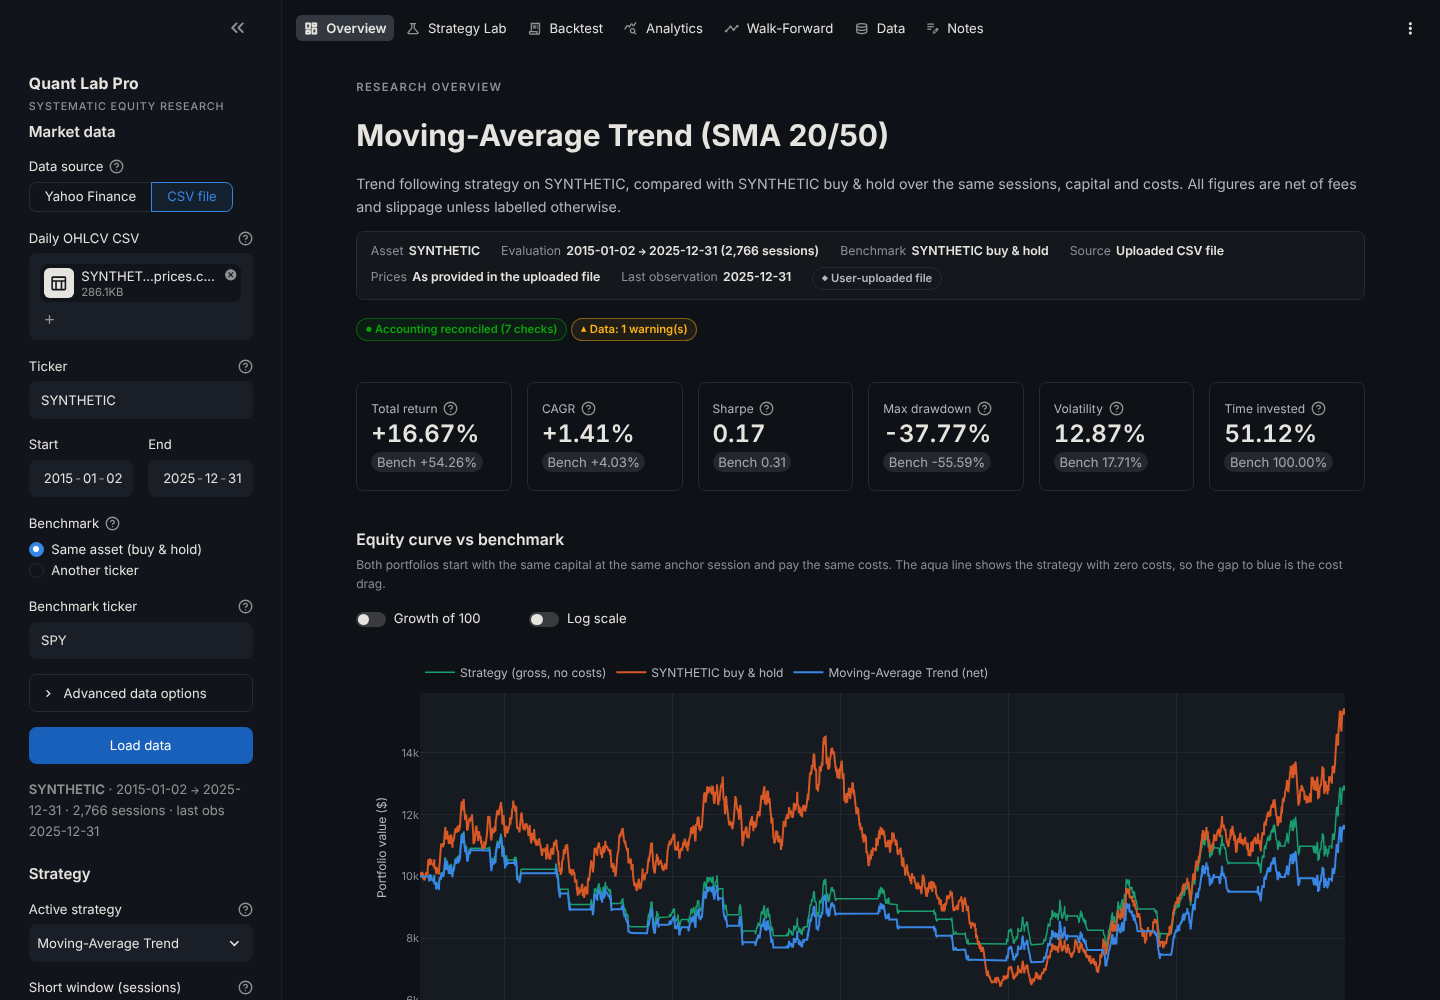
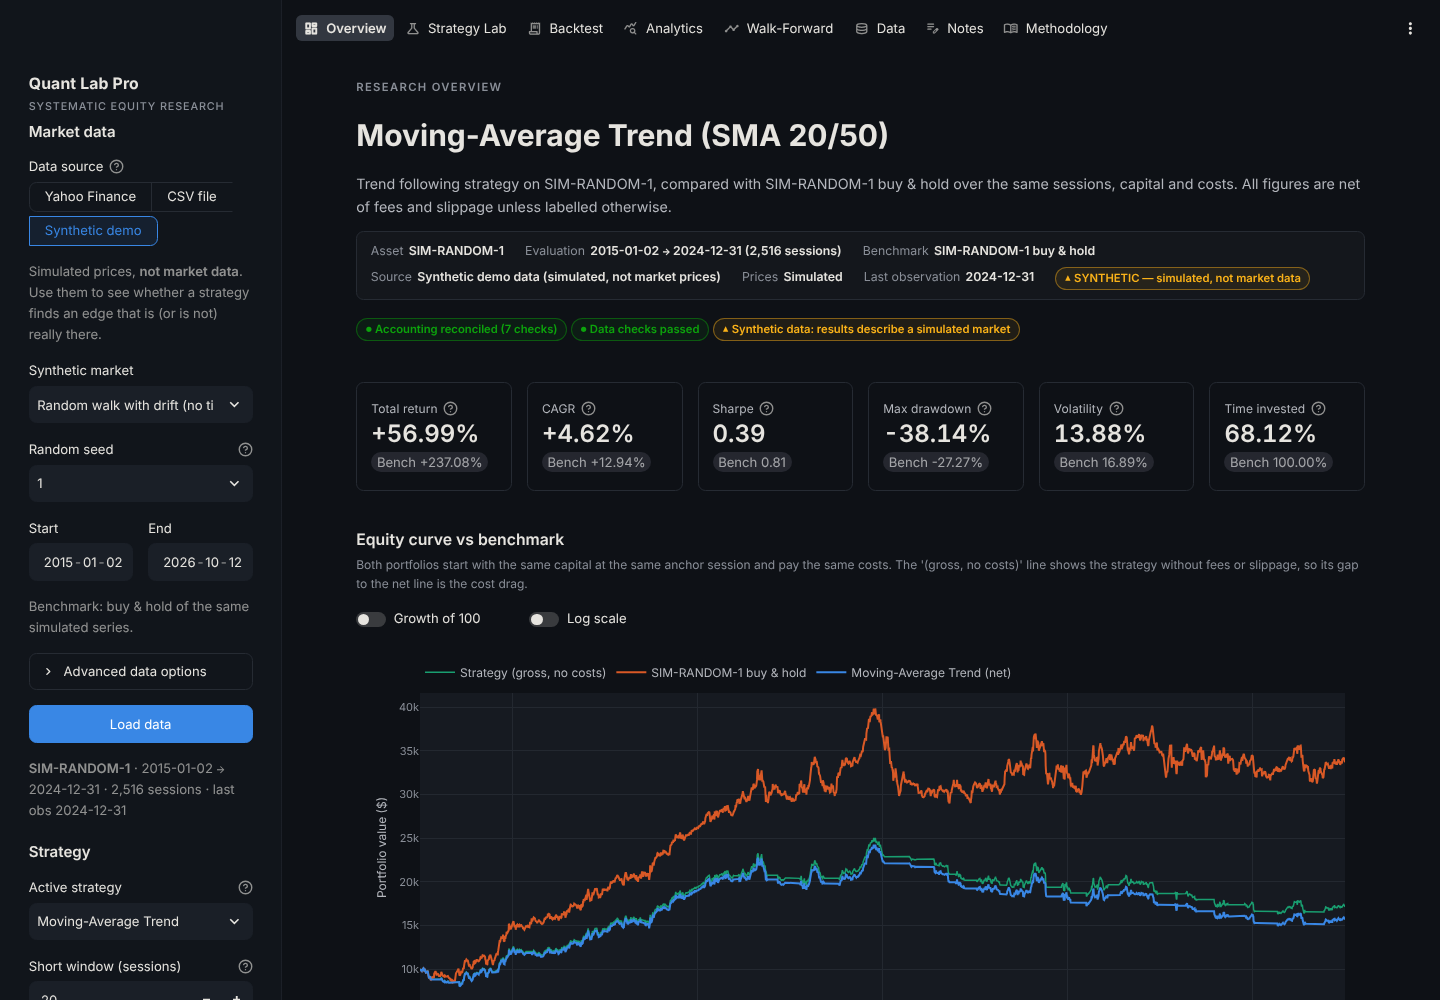
Wrapping Methodology tables, honest labels for simulated prices, demo screenshots
- Methodology: claims and thresholds render as wrapping tables with readable
  threshold names; the filter also searches test names.
- Evidence checklist: status pills no longer wrap; wide tables scroll sideways
  on narrow screens.
- Synthetic data is described as simulated (no splits or dividends) rather
  than as split-adjusted or delayed historical data.
- README screenshots regenerated from the labelled synthetic demo, including
  the evidence checklist and the Methodology page.

Claude-Session: https://claude.ai/code/session_01BxbNfZnyXesfkjat3oRNGY

diff --git a/ui/components.py b/ui/components.py
@@ -9,7 +9,7 @@ import pandas as pd
 import streamlit as st
 
 from quantlab.config import APP_VERSION, METHODOLOGY_VERSION
-from quantlab.data import ADJUSTMENT_LABELS, CACHE_STATUS_LABELS, CacheStatus
+from quantlab.data import CACHE_STATUS_LABELS, CacheStatus
 from quantlab.metrics import Metric, MetricReport, format_value
 from quantlab.validation import QualityReport
 from ui.theme import PLOTLY_CONFIG
@@ -115,7 +115,7 @@ def context_strip(data, spec=None, label: str | None = None) -> None:
         ("Evaluation", f"{data.eval_start:%Y-%m-%d} → {data.eval_end:%Y-%m-%d} ({len(data.eval_prices):,} sessions)"),
         ("Benchmark", data.benchmark_label),
         ("Source", ds.source_name),
-        ("Prices", ADJUSTMENT_LABELS.get(ds.adjustment, ds.adjustment).split(" (")[0]),
+        ("Prices", ds.price_convention.split(" (")[0]),
         ("Last observation", f"{ds.last_date:%Y-%m-%d}"),
     ]
     if label:
@@ -266,6 +266,26 @@ def show_table(frame: pd.DataFrame, height: int | str = "auto", **kwargs) -> Non
     st.dataframe(frame, hide_index=True, width="stretch", height=height, **kwargs)
 
 
+def html_table(frame: pd.DataFrame, code_columns: Iterable[str] = ()) -> None:
+    """A wrapping table for long text, which ``st.dataframe`` would truncate.
+
+    A list or tuple cell renders one item per line; ``code_columns`` render in monospace.
+    """
+    code = set(code_columns)
+
+    def cell(column, value) -> str:
+        parts = [_esc(v) for v in (value if isinstance(value, list | tuple) else [value])]
+        return "<br>".join(f"<code>{p}</code>" if column in code else p for p in parts)
+
+    head = "".join(f"<th>{_esc(c)}</th>" for c in frame.columns)
+    body = "".join(
+        "<tr>" + "".join(f"<td>{cell(c, v)}</td>" for c, v in zip(frame.columns, row, strict=True)) + "</tr>"
+        for row in frame.itertuples(index=False)
+    )
+    st.markdown(f"<div class='qlp-scroll'><table class='qlp-table'><thead><tr>{head}</tr></thead>"
+                f"<tbody>{body}</tbody></table></div>", unsafe_allow_html=True)
+
+
 def plot(fig, key: str | None = None) -> None:
     st.plotly_chart(fig, theme=None, config=PLOTLY_CONFIG, key=key, width="stretch")
 
@@ -357,8 +377,9 @@ def evidence_table(items) -> None:
             f"<td class='num'>{_esc(item.value)}</td><td>{_esc(item.threshold)}</td><td>{_esc(item.where)}</td></tr>"
         )
     st.markdown(
-        "<table class='qlp-table'><thead><tr><th>Status</th><th>Question</th><th style='text-align:right'>Result</th>"
-        f"<th>Threshold</th><th>Where</th></tr></thead><tbody>{''.join(rows)}</tbody></table>",
+        "<div class='qlp-scroll'><table class='qlp-table'><thead><tr><th>Status</th><th>Question</th>"
+        "<th style='text-align:right'>Result</th><th>Threshold</th><th>Where</th></tr></thead>"
+        f"<tbody>{''.join(rows)}</tbody></table></div>",
         unsafe_allow_html=True,
     )
 

diff --git a/ui/theme.py b/ui/theme.py
@@ -137,7 +137,7 @@ section[data-testid="stSidebar"] .block-container {{ padding-top: 1.2rem; }}
 
 /* Status pills */
 .qlp-pill {{ display: inline-flex; align-items: center; gap: 0.35rem; padding: 0.1rem 0.55rem;
-            border-radius: 999px; font-size: 0.75rem; font-weight: 600; border: 1px solid; }}
+            border-radius: 999px; font-size: 0.75rem; font-weight: 600; border: 1px solid; white-space: nowrap; }}
 .qlp-pill.good {{ color: {GOOD}; border-color: rgba(12,163,12,0.45); background: rgba(12,163,12,0.08); }}
 .qlp-pill.warn {{ color: {WARNING}; border-color: rgba(250,178,25,0.45); background: rgba(250,178,25,0.08); }}
 .qlp-pill.bad  {{ color: #f07070; border-color: rgba(208,59,59,0.5); background: rgba(208,59,59,0.08); }}
@@ -164,6 +164,9 @@ section[data-testid="stSidebar"] .block-container {{ padding-top: 1.2rem; }}
 .qlp-kv .k {{ color: {MUTED}; background: {SURFACE}; }}
 .qlp-kv .v {{ color: {TEXT}; }}
 
+/* Wide HTML tables scroll sideways on narrow screens instead of widening the page */
+.qlp-scroll {{ overflow-x: auto; }}
+
 /* Metric tables that wrap long definitions */
 .qlp-table {{ width: 100%; border-collapse: collapse; font-size: 0.85rem; border: 1px solid {BORDER};
              border-radius: 0.5rem; overflow: hidden; margin-bottom: 0.4rem; }}
@@ -174,6 +177,7 @@ section[data-testid="stSidebar"] .block-container {{ padding-top: 1.2rem; }}
 .qlp-table tr:last-child td {{ border-bottom: none; }}
 .qlp-table td.num {{ font-variant-numeric: tabular-nums; white-space: nowrap; text-align: right; }}
 .qlp-table td.def {{ color: {TEXT_2}; }}
+.qlp-table code {{ font-size: 0.78rem; overflow-wrap: anywhere; }}
 .qlp-table .note {{ display: block; color: {WARNING}; font-size: 0.78rem; margin-top: 0.15rem; }}
 
 /* Sidebar brand */

diff --git a/pages/8_Methodology.py b/pages/8_Methodology.py
@@ -6,7 +6,7 @@ import pandas as pd
 import streamlit as st
 
 from quantlab.config import METHODOLOGY_VERSION, TRADING_DAYS_PER_YEAR
-from quantlab.evidence import THRESHOLDS
+from quantlab.evidence import THRESHOLD_DISPLAY, THRESHOLDS
 from quantlab.traceability import CLAIMS
 from ui import components as ui
 
@@ -33,8 +33,9 @@ ui.kv_table({
 })
 
 ui.section("Evidence thresholds", "Used by the checklist on the Overview. Kept in one place: quantlab/evidence.py.")
-ui.show_table(pd.DataFrame(
-    [{"Check": key, "Threshold": value, "Why": why} for key, (value, why) in THRESHOLDS.items()]
+ui.html_table(pd.DataFrame(
+    [{"Check": THRESHOLD_DISPLAY[key][0], "Threshold": THRESHOLD_DISPLAY[key][1].format(value), "Why": why}
+     for key, (value, why) in THRESHOLDS.items()]
 ))
 
 ui.section("Claim → implementation → test",
@@ -42,12 +43,12 @@ ui.section("Claim → implementation → test",
 query = st.text_input("Filter", placeholder="e.g. look-ahead, Sharpe, CSV", key="meth_filter").strip().lower()
 rows = [
     {"Area": c.area, "Claim": c.claim, "Implementation": c.implementation,
-     "Tests": "\n".join(t.split("::")[1] for t in c.tests)}
+     "Tests": [t.removeprefix("tests/") for t in c.tests]}
     for c in CLAIMS
-    if not query or query in f"{c.area} {c.claim} {c.implementation}".lower()
+    if not query or query in f"{c.area} {c.claim} {c.implementation} {' '.join(c.tests)}".lower()
 ]
 if rows:
-    ui.show_table(pd.DataFrame(rows))
+    ui.html_table(pd.DataFrame(rows), code_columns=("Implementation", "Tests"))
 else:
     st.info("No claim matches that filter.")
 st.caption("Tests live in the tests/ folder of the repository; run them with `python -m pytest`.")

diff --git a/tests/test_app_smoke.py b/tests/test_app_smoke.py
@@ -189,6 +189,8 @@ def test_synthetic_demo_loads_offline_and_is_labelled_everywhere(monkeypatch):
         assert not at.error, (page, [e.value for e in at.error])
         if page not in {"pages/7_Research_Notes.py", "pages/8_Methodology.py"}:
             assert any("SYNTHETIC" in m.value for m in at.markdown), page
+        text = " ".join(e.value for e in [*at.markdown, *at.caption])
+        assert "historical end-of-day data. It is not live" not in text, page  # simulated, not historical
 
 
 LAB_TABS = ["Strategy guide", "Compare strategies", "Parameter sensitivity", "Cost sensitivity"]
@@ -392,3 +394,17 @@ def test_walk_forward_with_the_ensemble():
     at.button(key="wf_run").click().run()
     _assert_clean(at)
     assert "OOS Sharpe" in [m.label for m in at.metric]
+
+
+def test_methodology_lists_every_claim_and_filters_them():
+    from quantlab.traceability import CLAIMS
+
+    at = _app("pages/8_Methodology.py", with_data=False)
+    _assert_clean(at)
+    page = " ".join(m.value for m in at.markdown)
+    assert all(c.implementation in page for c in CLAIMS)
+    at.text_input(key="meth_filter").input("permutation").run()
+    page = " ".join(m.value for m in at.markdown)
+    assert "quantlab.nulls.timing_permutation_test" in page and "quantlab.backtest.simulate" not in page
+    at.text_input(key="meth_filter").input("no such claim").run()
+    assert any("No claim matches" in i.value for i in at.info)

diff --git a/quantlab/data.py b/quantlab/data.py
@@ -757,12 +757,19 @@ class MarketDataset:
     def is_usable(self) -> bool:
         return not self.quality.is_blocking and self.n_obs > 0
 
+    @property
+    def price_convention(self) -> str:
+        if self.provider_key == SyntheticProvider.key:
+            return "Simulated (no splits or dividends)"
+        return ADJUSTMENT_LABELS.get(self.adjustment, str(self.adjustment))
+
     def describe(self) -> dict[str, str]:
+        period = "Generated period" if self.provider_key == SyntheticProvider.key else "Downloaded period"
         return {
             "Ticker": self.ticker,
             "Data source": self.source_name,
-            "Price convention": ADJUSTMENT_LABELS.get(self.adjustment, str(self.adjustment)),
-            "Downloaded period (incl. warm-up)": f"{self.requested_start.date()} to {self.requested_end.date()}",
+            "Price convention": self.price_convention,
+            f"{period} (incl. warm-up)": f"{self.requested_start.date()} to {self.requested_end.date()}",
             "Observations": f"{self.n_obs:,}",
             "First observation": str(self.first_date.date()) if self.first_date is not None else "—",
             "Last available observation": str(self.last_date.date()) if self.last_date is not None else "—",

diff --git a/tests/test_evidence.py b/tests/test_evidence.py
@@ -6,7 +6,7 @@ from types import SimpleNamespace
 
 import pandas as pd
 
-from quantlab.evidence import THRESHOLDS, evidence_checklist
+from quantlab.evidence import THRESHOLD_DISPLAY, THRESHOLDS, evidence_checklist
 
 
 class _Report:
@@ -75,3 +75,10 @@ def test_overview_checklist_updates_after_a_walk_forward_run():
     assert not at.exception
     html = " ".join(m.value for m in at.markdown)
     assert "Run a walk-forward analysis of this strategy" not in html  # the row now reports a result
+
+
+def test_every_threshold_has_a_readable_name_and_comparison():
+    assert THRESHOLD_DISPLAY.keys() == THRESHOLDS.keys()
+    for key, (value, _) in THRESHOLDS.items():
+        name, comparison = THRESHOLD_DISPLAY[key]
+        assert name and "_" not in name and comparison.format(value)

diff --git a/pages/6_Data_Explorer.py b/pages/6_Data_Explorer.py
@@ -71,7 +71,10 @@ with c2:
         else:
             st.caption("Prices are used exactly as uploaded. Make sure you know whether they are adjusted for "
                        "splits and dividends; an unadjusted split looks like a crash.")
-        st.caption("This is delayed historical end-of-day data. It is not live and must not be used as a quote.")
+        if ds.provider_key == "synthetic":
+            st.caption("Simulated prices: not historical, not live, and not a quote for any security.")
+        else:
+            st.caption("This is delayed historical end-of-day data. It is not live and must not be used as a quote.")
         if ds.cache_status.value == "stale_cache":
             st.warning(f"Provider unavailable: {ds.provider_error}", icon=":material/history:")
 

diff --git a/tests/test_data.py b/tests/test_data.py
@@ -331,6 +331,9 @@ def test_synthetic_demo_data_is_deterministic_labelled_and_never_cached(tmp_path
     assert first.fingerprint == again.fingerprint != other.fingerprint
     assert first.is_usable and not first.quality.issues  # passes every data check on the NYSE calendar
     assert not list(tmp_path.iterdir())  # simulated prices are never written to the market-data cache
+    # Simulated prices have no splits or dividends; they are never described as an adjusted price series.
+    assert first.describe()["Price convention"].startswith("Simulated") and "Generated period (incl. warm-up)" in \
+        first.describe()
     with pytest.raises(TickerNotFoundError):
         load_market_data("SPY", "2015-01-01", "2020-12-31", SyntheticProvider(), **kwargs)
 

diff --git a/quantlab/evidence.py b/quantlab/evidence.py
@@ -31,6 +31,16 @@ THRESHOLDS: dict[str, tuple[float, str]] = {
     "wf_retention": (0.5, "Out-of-sample Sharpe at least half the in-sample level."),
 }
 
+# How each threshold reads to a person: a name and the comparison applied to the value.
+THRESHOLD_DISPLAY: dict[str, tuple[str, str]] = {
+    "min_sessions": ("Sample length", "≥ {:,.0f} sessions"),
+    "dsr": ("Deflated Sharpe ratio", "≥ {:.0%}"),
+    "spa_p": ("Hansen's SPA p-value", "≤ {:.2f}"),
+    "pbo": ("Probability of backtest overfitting", "< {:.0%}"),
+    "permutation_p": ("Timing permutation p-value", "≤ {:.2f}"),
+    "wf_retention": ("Walk-forward Sharpe retention", "≥ {:.0%} of in-sample"),
+}
+
 
 @dataclass(frozen=True)
 class EvidenceItem:

diff --git a/README.md b/README.md
@@ -59,16 +59,20 @@ automatically. A clearly labelled synthetic-data mode lets the whole app be expl
 
 ## Screenshots
 
-The images in [`docs/screenshots/`](docs/screenshots/) were captured while building the project in a
-sandbox **without market-data access**, using a **synthetic random-walk price file** (ticker `SYNTHETIC`).
-They show the interface, not real performance. Replace them with screenshots from your own run on real
-data (e.g. SPY 2015–today) before publishing.
+The images in [`docs/screenshots/`](docs/screenshots/) were captured from the app's **synthetic demo mode**
+(ticker `SIM-RANDOM-1`: a simulated random walk with drift and **no** timing signal, labelled SYNTHETIC in
+the app). They show the interface, not the performance of any real security. On this market the
+moving-average rule trails buy & hold, and its walk-forward Sharpe falls from 0.86 in training to −0.16 out of
+sample: what fitting noise looks like. Real-data screenshots should be taken from your own run before
+publishing.
 
-| Overview | Backtest & ledger |
+| Overview | Evidence checklist |
 |---|---|
-| ![Overview](docs/screenshots/overview.png) | ![Backtest](docs/screenshots/backtest.png) |
-| **Walk-forward** | **Data quality** |
-| ![Walk-forward](docs/screenshots/walk_forward.png) | ![Data](docs/screenshots/data.png) |
+| ![Overview](docs/screenshots/overview.png) | ![Evidence checklist](docs/screenshots/evidence.png) |
+| **Backtest & fills** | **Walk-forward** |
+| ![Backtest](docs/screenshots/backtest.png) | ![Walk-forward](docs/screenshots/walk_forward.png) |
+| **Data & known data-generating process** | **Methodology & traceability** |
+| ![Data](docs/screenshots/data.png) | ![Methodology](docs/screenshots/methodology.png) |
 
 ---
 
@@ -119,7 +123,7 @@ python -m pytest            # full suite (about two minutes on a laptop, no netw
 ruff check quantlab ui pages app.py tests scripts   # optional lint
 ```
 
-The suite (521 tests) uses only synthetic data with known outcomes. It covers:
+The suite (523 tests) uses only synthetic data with known outcomes. It covers:
 
 - **Accounting with hand-calculated expectations** — buy-and-hold, round trips with and without costs,
   whole-share sizing, insufficient cash, open positions marked to market.
@@ -675,7 +679,7 @@ Talking points for interviews, each implemented and tested in this codebase:
   for detecting vendor revisions.
 - **Reproducible research** — run manifests, methodology versioning, deterministic computation and a
   verification script.
-- **Software engineering** — a UI-independent core, typed configuration with validation, 521 automated
+- **Software engineering** — a UI-independent core, typed configuration with validation, 523 automated
   tests including UI tests and regression tests for every audited defect, bounded caches, lazily
   rendered tabs, and a lint-clean codebase.
 
